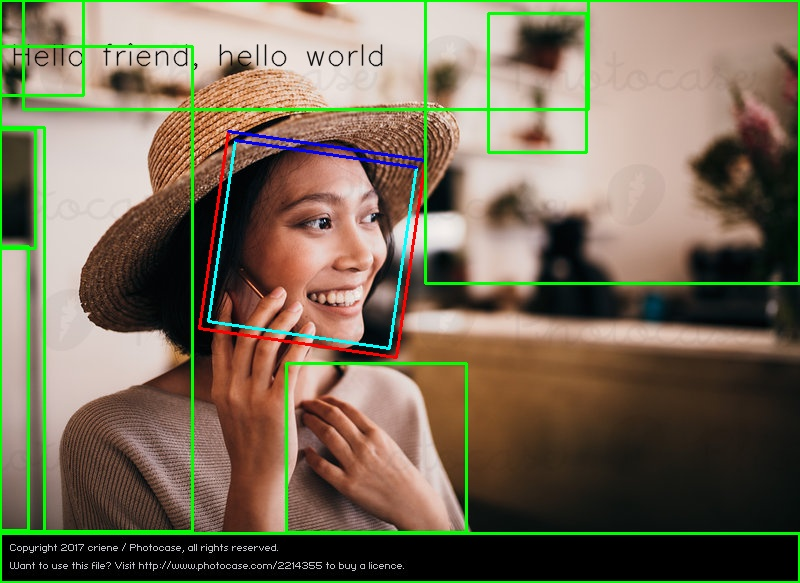
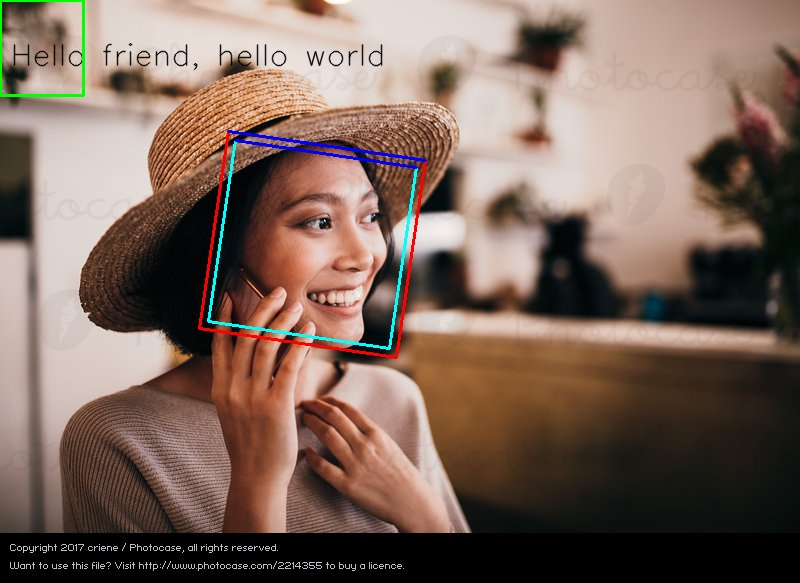
modify region return distance

Changed region(s): [[0.0, 0.0, 1.0, 1.0]]

diff --git a/pcn.py b/pcn.py
@@ -331,13 +331,17 @@ def pcn_detect(img, nets):
         winlist = smooth_window(winlist)
     return trans_window(img, imgPad, winlist)
 
-def draw_rpn(img, regions, regions_index):
-    font = cv2.FONT_HERSHEY_SIMPLEX
-    for index in range(len(regions)):
-        if regions_index[index] != False: # Get region coordinate - not false
-            rect_x, rect_y, rect_w, rect_h = regions[index]['rect']
-            cv2.rectangle(img, (rect_x, rect_y), (rect_x + rect_w, rect_y + rect_h), (0,255,0), 2)
-            cv2.putText(img,str(regions_index[index]) ,(rect_x, rect_y), font, 1, (0,0,255), 1, cv2.LINE_AA)
+def draw_rpn(img, regions_index):
+    regions_index = list(filter(lambda distance: distance != False, regions_index))
+    min_distance = min(regions_index, key = lambda t: t[1])
+    print(min_distance)
+    rect_x, rect_y, rect_w, rect_h = min_distance[0] # Get coordinate
+    cv2.rectangle(img, (rect_x, rect_y), (rect_x + rect_w, rect_y + rect_h), (0,255,0), 2)
+         
+    # for index in range(len(regions_index)):
+    #     rect_x, rect_y, rect_w, rect_h = regions_index[index][0] # Get coordinate
+    #     cv2.rectangle(img, (rect_x, rect_y), (rect_x + rect_w, rect_y + rect_h), (0,255,0), 2)
+         
 def get_ms_type(img):
     width, height, depth = img.shape
     type_check = 1 if width >= height else 2
@@ -410,7 +414,7 @@ def check_collide(head, region, distance):
         if (left > 0 or right < 0 or top < 0 or bottom > 0): # and (distance_tmp <= distance):
             print("Distance tmp : {0}".format(distance_tmp))
             # return region, distance_tmp # Get region
-            return int(distance_tmp) 
+            return region ,int(distance_tmp) 
         else:
             return False  # Not get False
 
@@ -464,7 +468,7 @@ if __name__ == '__main__':
     regions_index = swept_aabb(lst_head, regions[:2000], distance)
     # print(regions[:10])
     # Draw ss
-    draw_rpn(img, regions[:2000], regions_index)
+    draw_rpn(img, regions_index)
 
     # Show image
     cv2.imshow("pytorch-PCN", img)
